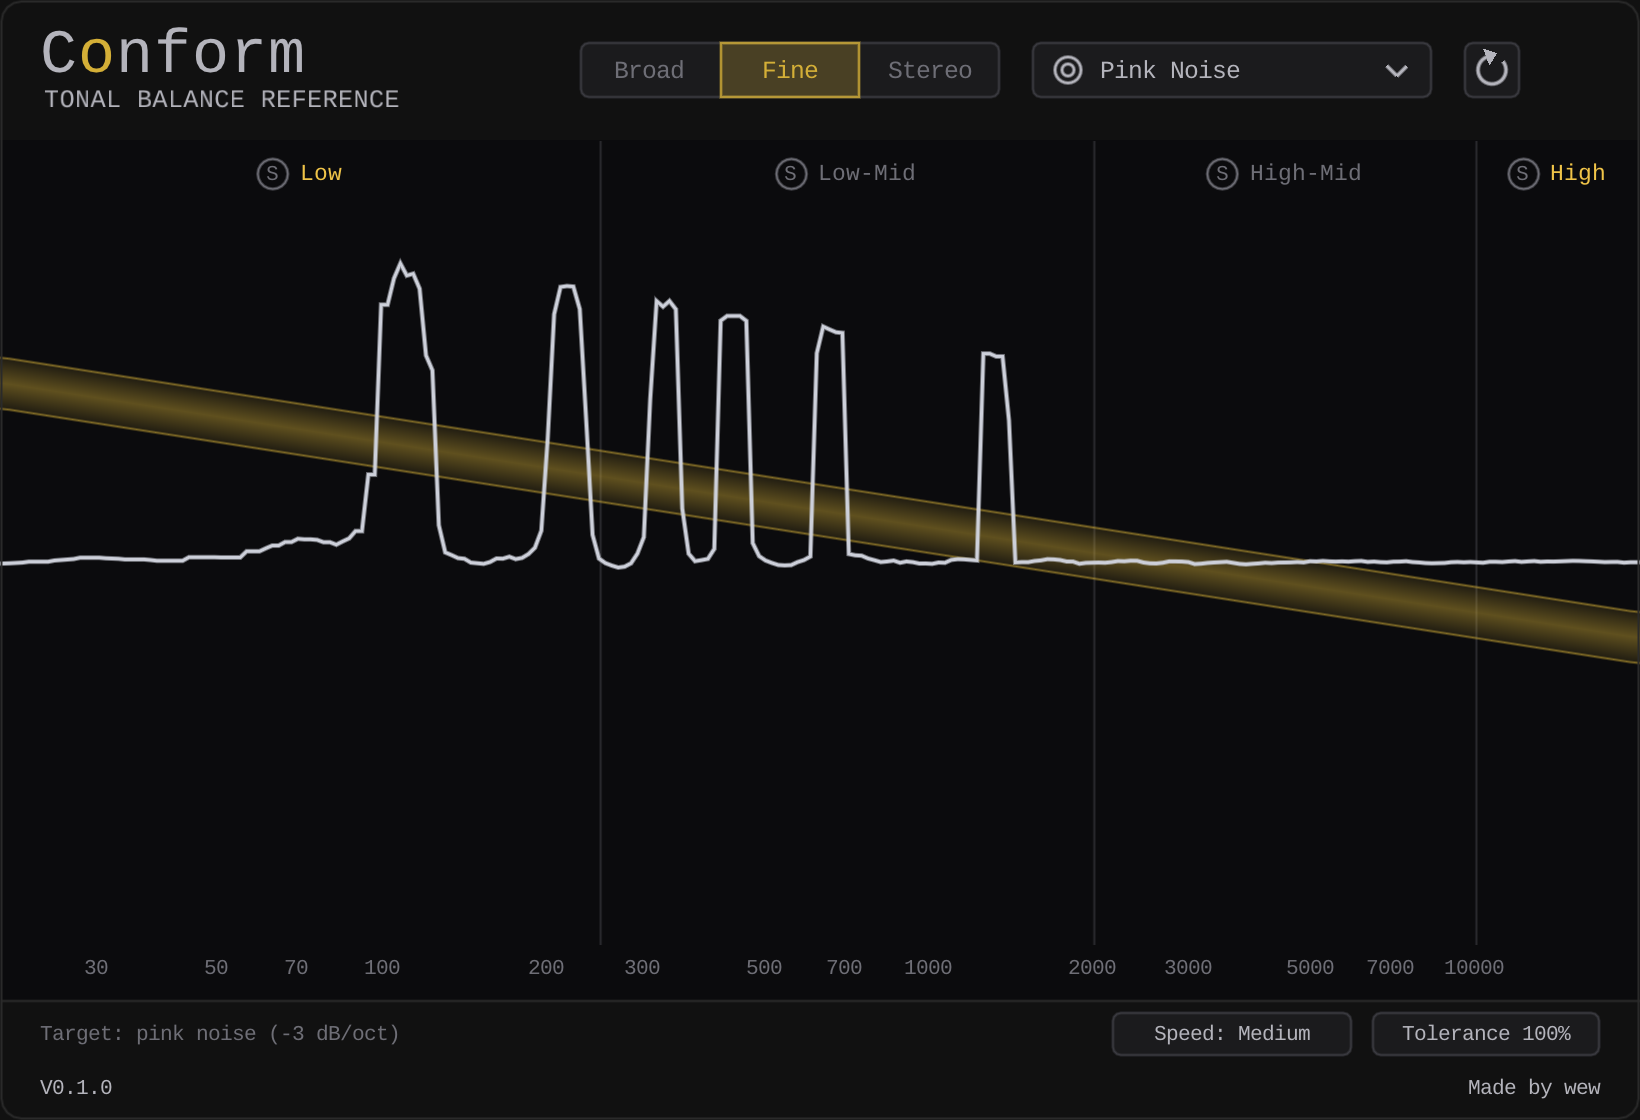
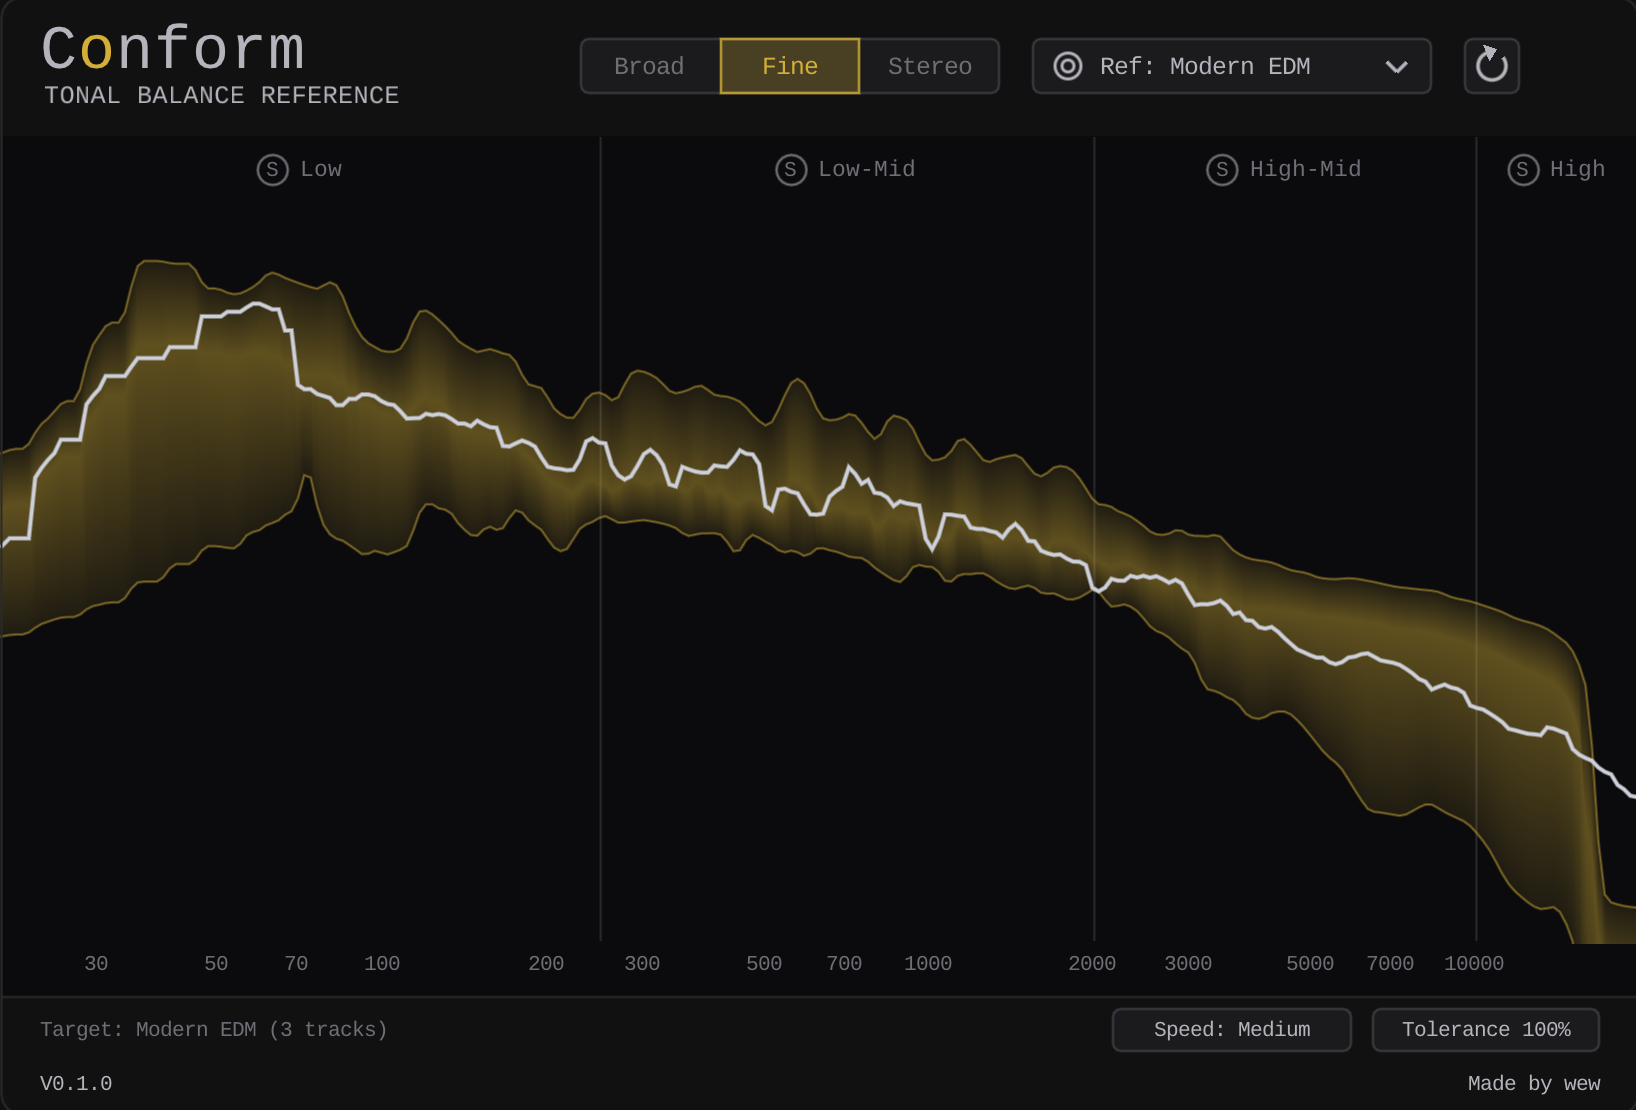
Site update from wewdsp 28c4dbb

diff --git a/js/content.js b/js/content.js
@@ -49,7 +49,7 @@ export const PLUGINS = {
         accent: GOLD,
         subtitle: 'SPECTRAL KEY QUANTIZER',
         blurb: [
-            'A MIDI scale quantizer snaps notes into key. Keyfield does that to every frequency in the signal, so it works on anything: vocals, chords, drums, noise.',
+            'A MIDI scale quantizer snaps notes into key. Keyfield does that to every frequency in the signal, so it works on anything: vocals, pads, drums, noise.',
             'Each spectral peak and the bins around it move as one block onto the nearest in-key pitch, with phase-locked resynthesis. Click the keys to build your own scale.',
         ],
         points: [
